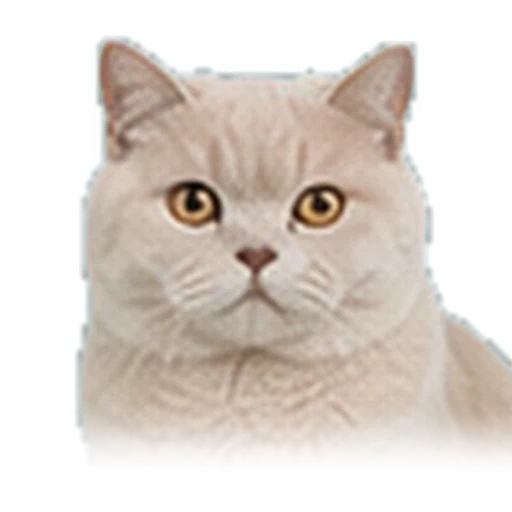
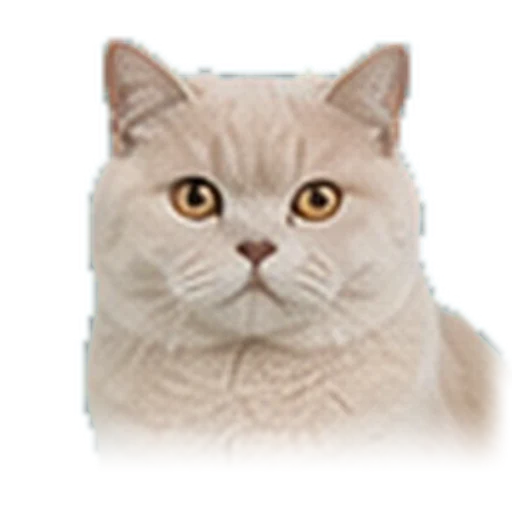
Audit every matte, and fix what the audit found
A photo of the live site showed a white bar across one portrait and a hard
rectangle beside another. Measuring all 34 assets rather than eyeballing them
turned up three defects, all introduced by my own processing:

- sixteen cats had their shoulders sliced off square at the frame edge,
  because the square was sized from the head and never checked against the
  body
- four carried a full-width strip along the top. Component labelling should
  have dropped it, but the strip touched the ears, so it counted as part of
  the cat
- five had a bright halo. Edge colour recovery only ran on partial alpha, and
  a hard key leaves fully opaque boundary pixels carrying backdrop grey

Worst clip 418 -> 5, worst debris 4844 px -> 10, worst halo 28.9 -> 10.8,
nothing failing.

Framing is now sized from the head rather than from a fixed fraction of the
body, which is what holds scale steady across sources with different
proportions; anything still reaching the frame edge dissolves instead of
being cut. The interior is hardened after keying, because the key's soft ramp
was letting pale fur come out part-transparent and the background showed
through the body.

The pipeline moves into scripts/build_cat_busts.py so it stops being
reconstructed from scratch each time, and the docs gain the four measures the
audit uses.

Claude-Session: https://claude.ai/code/session_01VzzTrYmru1tcCWxj1nBoPS

diff --git a/scripts/build_cat_busts.py b/scripts/build_cat_busts.py
@@ -1,0 +1,110 @@
+"""Turn flat-cyan cat renders into the site's bust portraits."""
+from PIL import Image
+import numpy as np, os, glob
+from scipy import ndimage
+
+KEY = np.array([58.3, 189.8, 209.8], np.float32)   # measured off the flat backdrop
+LO, HI = 60.0, 140.0                               # fur sits >=150 away; backdrop std is 6
+# Target head width as a share of the frame. Driving the crop from the head
+# rather than from a fixed fraction of the body is what keeps every portrait at
+# the same scale, whatever proportions the source render happened to have.
+HEAD = 0.67
+HEAD_OVERRIDE = {'grace-dominica-blh': 0.55}      # a longhair needs her ruff to read
+
+def build(arr, name, key_it):
+    if key_it:
+        d = np.linalg.norm(arr[:, :, :3] - KEY, axis=2)
+        arr[:, :, 3] *= np.clip((d - LO) / (HI - LO), 0, 1)
+
+    rgb = arr[:, :, :3]; mx = rgb.max(2); mn = rgb.min(2)
+    inky = (mx < 95) & ((mx - mn) < 26)             # some sources stroke a black outline
+    arr[:, :, 3][inky & ndimage.binary_dilation(arr[:, :, 3] < 20, np.ones((11, 11)))] = 0
+
+    # Keep the cat, drop every scrap. Plain component labelling is not enough:
+    # some sources carry a full-width strip along the top that touches the ears,
+    # so it counts as part of the cat. Open the mask first — a few-pixel-tall
+    # strip cannot survive that, and the body can — then keep the biggest blob
+    # and everything within reach of it, so fur wisps are not eaten.
+    core = ndimage.binary_opening(arr[:, :, 3] > 20, np.ones((9, 9)))
+    lbl, k = ndimage.label(core)
+    if k:
+        keep = 1 + int(np.argmax([(lbl == i).sum() for i in range(1, k + 1)]))
+        arr[:, :, 3][~ndimage.binary_dilation(lbl == keep, np.ones((13, 13)))] = 0
+
+    # Harden the interior. The key's soft ramp let pale fur that sits near the
+    # threshold come out part-transparent, so the backdrop showed through the
+    # body. Only the outermost pixels should carry partial alpha.
+    arr[:, :, 3][ndimage.binary_erosion(arr[:, :, 3] > 100, np.ones((5, 5)))] = 255
+
+    solid = arr[:, :, 3] > 20
+    lbl, k = ndimage.label(ndimage.binary_fill_holes(solid) & ~solid)
+    for i in range(1, k + 1):
+        m = lbl == i
+        if m.sum() < 4000: arr[:, :, 3][ndimage.binary_dilation(m, np.ones((5, 5)))] = 255
+
+    # Edge colour recovery. Contamination is not confined to partial alpha: a hard
+    # key leaves fully opaque boundary pixels carrying backdrop grey, which is the
+    # halo on the dark cats. Distrust rim pixels markedly brighter than the fur
+    # just inside, and take colour from what is left.
+    vis = arr[:, :, 3] > 20; lum = rgb.mean(2)
+    ref = ndimage.grey_erosion(np.where(ndimage.binary_erosion(vis, np.ones((9, 9))), lum, 255), size=17)
+    band = vis & ~ndimage.binary_erosion(vis, np.ones((7, 7)))
+    trust = (arr[:, :, 3] >= 250) & ~(band & (lum > ref + 22))
+    if trust.any():
+        _, idx = ndimage.distance_transform_edt(~trust, return_indices=True)
+        fix = vis & ~trust
+        arr[:, :, :3][fix] = arr[:, :, :3][idx[0][fix], idx[1][fix]]
+
+    R, G, B, A = arr[:, :, 0], arr[:, :, 1], arr[:, :, 2], arr[:, :, 3]
+    cap = R + 8; f = (A > 20) & (((G + B) / 2) > cap)   # despill: cyan lifts G and B
+    G[f] = np.minimum(G[f], cap[f]); B[f] = np.minimum(B[f], cap[f])
+    im = Image.fromarray(arr.round().clip(0, 255).astype(np.uint8), 'RGBA')
+
+    a = np.array(im)[:, :, 3]
+    ys, xs_all = np.where(a > 10)
+    y0, y1 = int(ys.min()), int(ys.max())
+
+    # measure the head, then size the whole frame off it
+    band = a[y0:y0 + max(1, int((y1 - y0) * 0.25))]
+    hc = np.where(band.max(0) > 10)[0]
+    head_w = hc.max() - hc.min() + 1
+    side = int(head_w / HEAD_OVERRIDE.get(name, HEAD))
+    H = int(min(side / 1.16, y1 - y0 + 1))
+
+    im = im.crop((0, y0, im.width, y0 + H))
+    A2 = np.array(im).astype(np.float32)
+    nf = int(H * 0.18)
+    t = np.linspace(0, 1, nf, dtype=np.float32)
+    A2[H - nf:, :, 3] *= (1 - (t * t * (3 - 2 * t)))[:, None]     # dissolve the crop line
+
+    cx = int((hc.min() + hc.max()) // 2)
+    x0, y0b = cx - side // 2, -(side - H) // 2
+
+    # whatever body reaches the frame edge dissolves rather than being cut square,
+    # ramped in vertically so it never touches the head
+    wfade = max(1, int(side * 0.07))
+    ramp = np.linspace(0, 1, wfade, dtype=np.float32); ramp = ramp * ramp * (3 - 2 * ramp)
+    depth = np.clip((np.arange(H, dtype=np.float32) / H - 0.45) / 0.35, 0, 1)[:, None]
+    L, R = max(0, x0), min(A2.shape[1], x0 + side)
+    for lo, hi, r in ((L, min(L + wfade, R), ramp), (max(L, R - wfade), R, ramp[::-1])):
+        if hi > lo: A2[:, lo:hi, 3] *= (1 - depth * (1 - r[:hi - lo][None, :]))
+
+    sq = np.zeros((side, side, 4), np.float32)
+    sx, sy = max(0, x0), max(0, y0b); dx, dy = max(0, -x0), max(0, -y0b)
+    w = min(A2.shape[1] - sx, side - dx); h = min(H - sy, side - dy)
+    sq[dy:dy + h, dx:dx + w] = A2[sy:sy + h, sx:sx + w]
+    return Image.fromarray(sq.round().clip(0, 255).astype(np.uint8), 'RGBA').resize((512, 512), Image.LANCZOS)
+
+if __name__ == '__main__':
+    REF = {'lilac': 'audit/reference/lilac_final.png', 'cream': 'audit/reference/cream_final.png',
+           'cream-white-03': 'audit/reference/cream-white-03_final.png',
+           'grace-dominica-blh': 'audit/reference/grace_final.png'}
+    os.makedirs('rebuilt', exist_ok=True)
+    for n, s in REF.items():
+        build(np.array(Image.open(s).convert('RGBA')).astype(np.float32), n, True)\
+            .save(f'rebuilt/{n}.webp', 'WEBP', quality=88, method=6)
+    for p in sorted(glob.glob('cyan/assets/cats/*.webp')):
+        n = os.path.basename(p)[:-5]
+        if n in REF or n == 'yoshi': continue
+        build(np.array(Image.open(p).convert('RGBA')).astype(np.float32), n, False)\
+            .save(f'rebuilt/{n}.webp', 'WEBP', quality=88, method=6)

diff --git a/docs/cat-artwork.md b/docs/cat-artwork.md
@@ -60,6 +60,31 @@ matching `BLH p 03`. Her crop keeps more chest than the others (80% rather than
 60%) so the ruff actually reads — at the standard crop a longhair looks
 shorthaired.
 
+## The pipeline
+
+`scripts/build_cat_busts.py` is the whole thing, run against the flat-cyan
+sources (which live outside this repo). In order: chroma key, strip any stroked
+outline, open-and-keep-the-largest-blob, harden the interior, fill small holes,
+recover edge colour, despill, crop, fade, frame, export.
+
+Four of those steps exist because of specific failures, all found by measuring
+rather than by looking:
+
+- **Open before keeping the largest blob.** Plain component labelling is not
+  enough. One batch carried a full-width strip along the top of the frame that
+  *touched the ears*, so it counted as part of the cat and rode through onto the
+  site as a white line across four portraits.
+- **Harden the interior.** The key's soft ramp let pale fur near the threshold
+  come out part-transparent, so the background showed through the body. Only the
+  outermost pixels should carry partial alpha.
+- **Size the frame from the head, never from a fixed fraction of the body.** Head
+  width targets 0.67 of the frame (0.55 for Grace, so her ruff reads). A fixed
+  crop fraction cannot hold scale steady across sources with different body
+  proportions, and framing on the widest point instead sliced sixteen cats' 
+  shoulders off at a hard vertical edge.
+- **Fade the frame edges, do not cut them.** Any body still reaching the edge
+  dissolves, ramped in vertically so it never touches the head.
+
 ## Two more repairs the pipeline does
 
 Later batches needed two steps beyond the key and despill, both kept because they
@@ -73,6 +98,21 @@ cost nothing when there is nothing to fix:
   round the cat, opaque, so no key touches it. Dark neutral pixels sitting
   against the backdrop are cut. Safe here because no cat in the set is black at
   the silhouette — revisit this if one ever is.
+
+## Auditing
+
+Check the mattes by measurement, not by eye and not by HTTP status. Four numbers
+catch everything that has gone wrong so far, per asset:
+
+| Measure | How | Fail at |
+|---|---|---|
+| Body clipped by the frame | opaque pixels on column 0 and column −1 | > 40 |
+| Debris | total area of every connected blob but the largest | > 200 px |
+| Halo | mean rim brightness minus mean brightness just inside | > 14 |
+| Head scale | head width as a share of frame width | outside 0.58–0.80 |
+
+Before the audit that produced this section: worst clip 418, worst debris 4,844
+px, worst halo 28.9. After: 5, 10, 10.8, with nothing failing.
 
 Earlier states are in git history: the original full-body cutouts at `4febd11`,
 the first bust crop at `16adfc0`.
